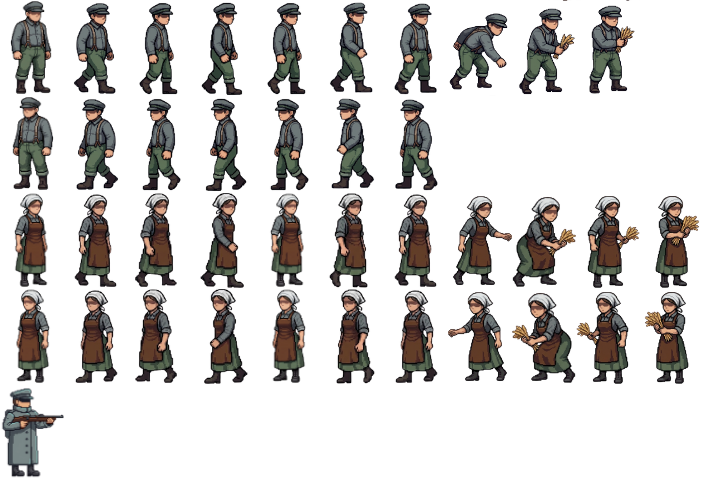
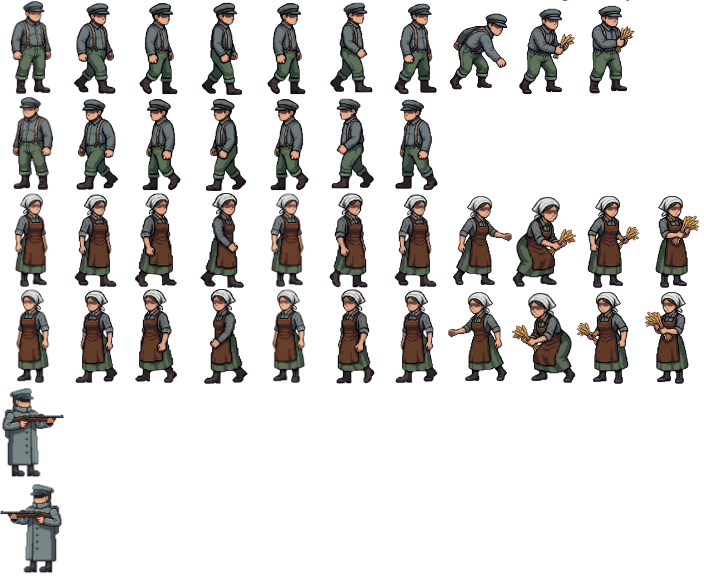
Trench implementation and combat system begin

diff --git a/src/definitions/Entitys.py b/src/definitions/Entitys.py
@@ -70,7 +70,7 @@ SOLDIERS = {
                 "interval": 0.3,
             },
             "walk_left": {
-                "frames": [44],
+                "frames": [55],
                 "interval": 0.3,
             },
             "walk_right": {
@@ -85,7 +85,37 @@ SOLDIERS = {
                 "frames": [44],
                 "interval": 0.3,
             },
-            "work": {
+            "shot": {
+                "frames": [44],
+                "interval": 0.3,
+            },
+        }
+    },
+    "Soldier_enemy": {
+        "texture_id": "entitys",
+        "is_enemy": True,
+        "animations": {
+            "idle": {
+                "frames": [44],
+                "interval": 0.3,
+            },
+            "walk_left": {
+                "frames": [55],
+                "interval": 0.3,
+            },
+            "walk_right": {
+                "frames": [44],
+                "interval": 0.3,
+            },
+            "walk_up": {
+                "frames": [44],
+                "interval": 0.3,
+            },
+            "walk_down": {
+                "frames": [44],
+                "interval": 0.3,
+            },
+            "shot": {
                 "frames": [44],
                 "interval": 0.3,
             },

diff --git a/settings.py b/settings.py
@@ -44,6 +44,7 @@ TEXTURES = {
     "entitys": pygame.image.load(BASE_DIR / "assets" / "graphics" / "entitys.png"),
     "buildings": pygame.image.load(BASE_DIR / "assets" / "graphics" / "buildings.png"),
     "barracks": pygame.image.load(BASE_DIR / "assets" / "graphics" / "barracks.png"),
+    "trench": pygame.image.load(BASE_DIR / "assets" / "graphics" / "trench.png"),
 }
 
 FRAMES = {
@@ -51,6 +52,7 @@ FRAMES = {
     "entitys": frames.generate_frames(TEXTURES["entitys"], 64,96),
     "buildings": frames.generate_frames(TEXTURES["buildings"], 416, 320),
     "barracks": frames.generate_frames(TEXTURES["barracks"], 347, 321),
+    "trench": frames.generate_frames(TEXTURES["trench"], 384, 672),
 }
 
 FONTS = {

diff --git a/src/definitions/Buildings.py b/src/definitions/Buildings.py
@@ -26,16 +26,16 @@ MILITARY_BUILDINGS = {
     "barracks": {
         "texture_id": "barracks",
         "frame_index": 0,
-        "width": 128,
-        "height": 128,
+        "width": 347,
+        "height": 321,
         "collidable": True,
         "solid": True,
     },
     "trench": {
-        "texture_id": "buildings",
-        "frame_index": 3,
-        "width": 64,
-        "height": 32,
+        "texture_id": "trench",
+        "frame_index": 0,
+        "width": 384,
+        "height": 672,
         "collidable": True,
         "solid": True,
     },

diff --git a/src/Soldier.py b/src/Soldier.py
@@ -13,9 +13,10 @@ class Soldier(GameEntity):
                  animations: dict, 
                  speed: float = 60, 
                  battlefield: Any = None, 
-                 entity_type: str = "Man") -> None:
+                 entity_type: str = "Man",
+                 is_enemy: bool = False) -> None:
         super().__init__(x, y, width, height, texture_id, animations, speed, battlefield, entity_type)
-        
+        self.is_enemy = is_enemy
     def update(self, dt: float) -> None:
         return super().update(dt)
     

diff --git a/src/GameBattlefield.py b/src/GameBattlefield.py
@@ -72,6 +72,7 @@ class GameBattlefield():
                 **definition
             )
         )
+            
         else:
             definition = Entitys.LABOURERS.get("Man", {
                 "texture_id": "entitys",
